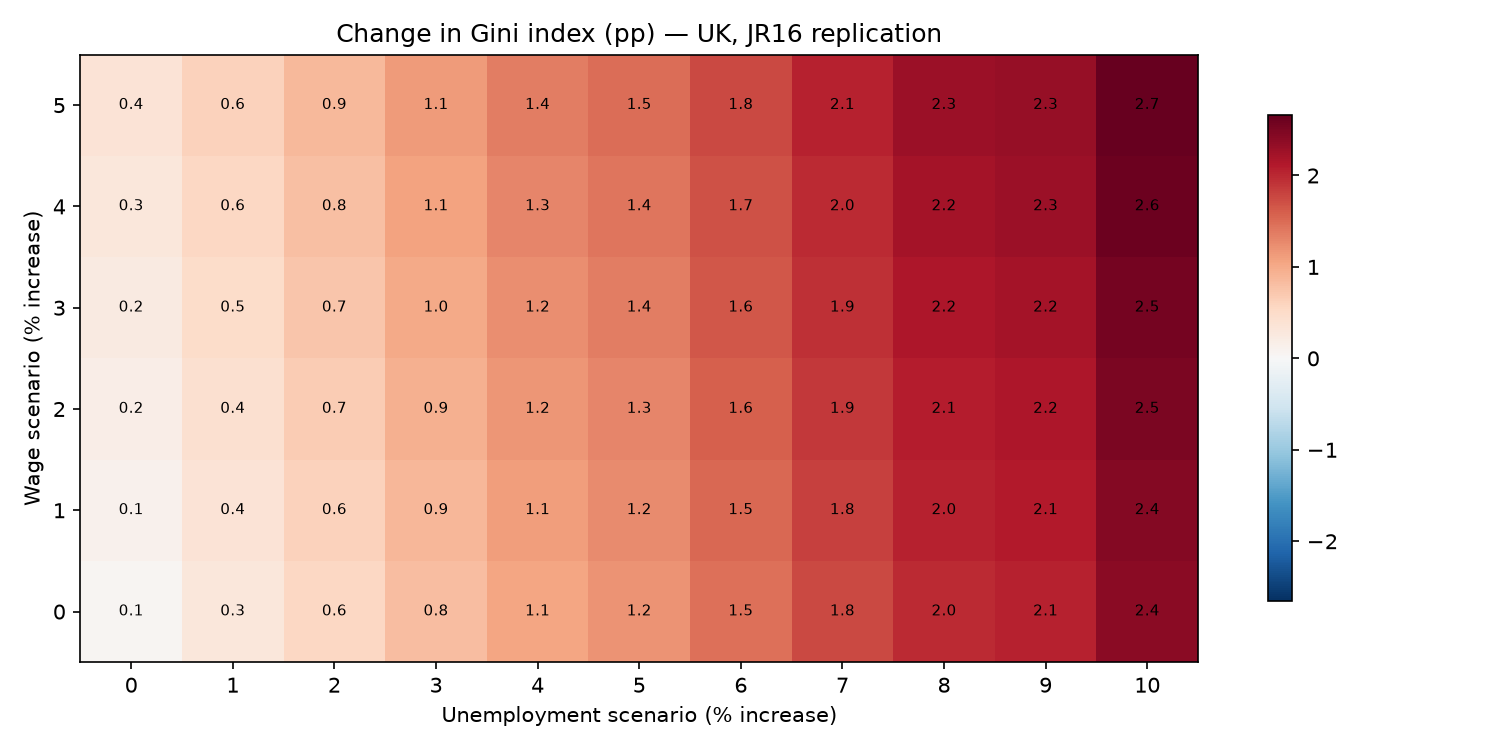
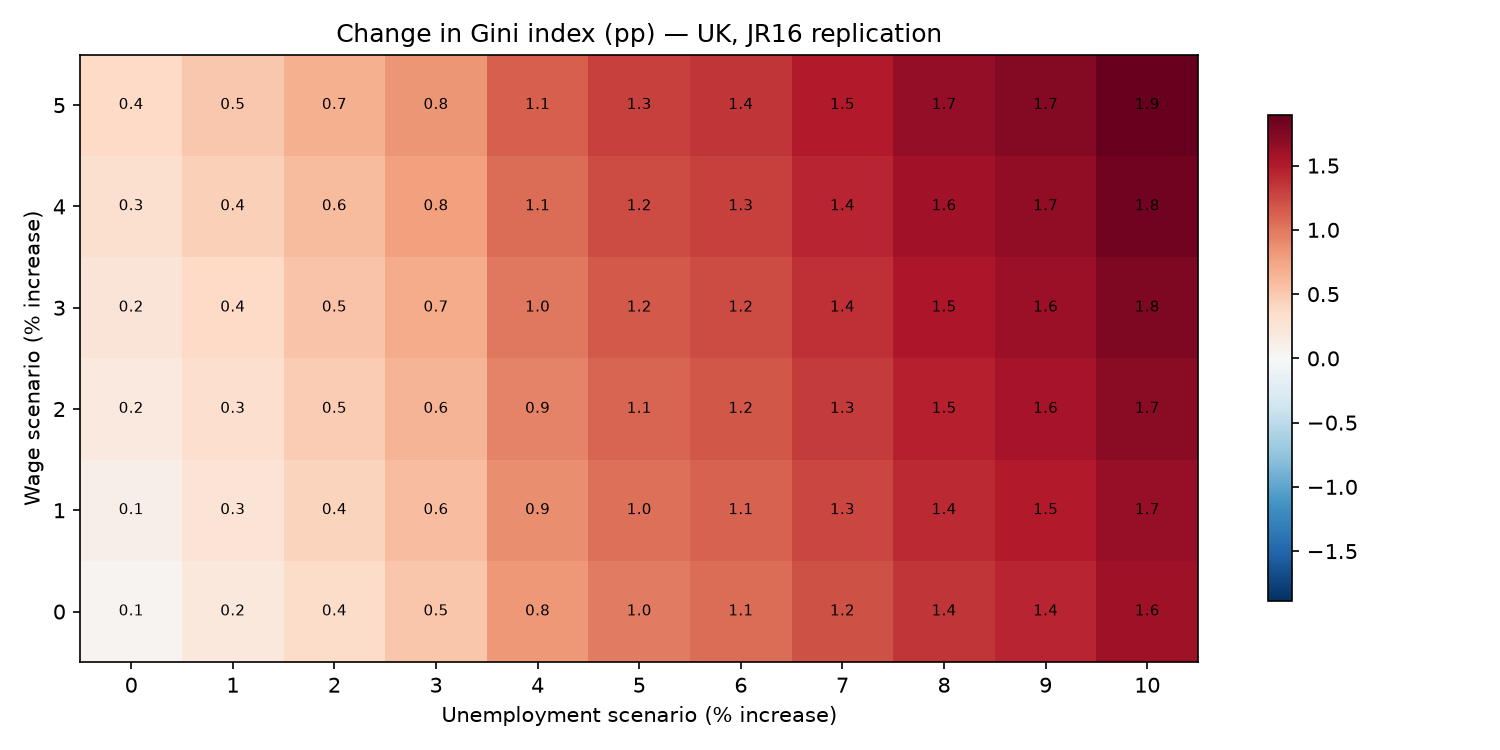
Corrected grid results, updated heatmaps and paper; add three-paper scenario section

diff --git a/paper/main.tex b/paper/main.tex
@@ -25,12 +25,14 @@ adults; employment, wage and capital shocks follow the report's equations
 3.4 and 3.5; and fiscal and distributional outcomes are computed with
 PolicyEngine UK in place of SWITCH. In the central scenario (7\%
 displacement, +2.6\% wages, +0.4pp return to capital), the annual Exchequer
-cost is \pounds 41bn, the before-housing-costs poverty rate rises by
-3.3 percentage points, and the Gini of equivalised household net income
-rises by 0.019. We extend the framework along the age dimension: tilting
+cost is \pounds 18bn, the before-housing-costs poverty rate rises by
+1.8 percentage points, and the Gini of equivalised household net income
+rises by 0.014. We extend the framework along the age dimension: tilting
 within-occupation displacement toward workers aged 16--24, per recent
 seniority-biased evidence, raises the youth share of the displaced by
-roughly two-fifths while leaving aggregate effects nearly unchanged.
+roughly one-sixth while leaving aggregate effects nearly unchanged; and we
+implement the employment findings of three recent seniority-biased studies
+as explicit scenarios.
 \end{abstract}
 
 \section{Introduction}
@@ -98,44 +100,44 @@ net income, with breakdowns by baseline income decile and age band.
 \toprule
  & Displacement & Exchequer cost & $\Delta$ Poverty (BHC) & $\Delta$ Gini \\
 \midrule
-Low & 1\% & \pounds 6.5bn & +0.32pp & +0.003 \\
-Central & 7\% & \pounds 41.1bn & +3.25pp & +0.019 \\
-High & 13\% & \pounds 93.9bn & +7.02pp & +0.034 \\
-Central, youth-tilted & 7\% & \pounds 39.4bn & +3.42pp & +0.018 \\
+Low & 1\% & \pounds 1.8bn & +0.01pp & +0.002 \\
+Central & 7\% & \pounds 17.9bn & +1.84pp & +0.014 \\
+High & 13\% & \pounds 48.5bn & +4.17pp & +0.023 \\
+Central, youth-tilted & 7\% & \pounds 16.7bn & +2.17pp & +0.013 \\
 \bottomrule
 \end{tabular}
 \end{table}
 
-Fiscal costs scale roughly linearly at \pounds 6--7bn per percentage point
+Fiscal costs scale roughly linearly at \pounds 3--4bn per percentage point
 of displacement, on top of an always-on capital-shock component. The
 youth-tilted central scenario raises the 16--24 share of the displaced from
-3.2\% to 4.5\% --- a two-fifths increase --- while aggregate fiscal and
-inequality effects move little, because young workers' earnings and benefit
-entitlements are smaller than average. Poverty, however, rises slightly
-\emph{more} under the youth tilt (+3.42pp vs +3.25pp).
+3.6\% to 4.2\% while aggregate fiscal and inequality effects move little,
+because young workers' earnings and benefit entitlements are smaller than
+average. Poverty, however, rises \emph{more} under the youth tilt (+2.17pp
+vs +1.84pp).
 
 \subsection{Full replication of the JR16 result set}
 
 We regenerate every result in the original report for the UK. The share of
-workers transitioning to unemployment rises monotonically from 0.6\% in the
-bottom decile of equivalised household disposable income to 8.5\% in the top
-decile (Ireland: 0.7\% to 5.3\%) --- AI displacement risk concentrates in
-high-income households, and more steeply in the UK. Wage gains for those who
-remain are flat across the distribution (2.5--2.7\%). The capital-return
+the population transitioning to unemployment rises monotonically from 0.4\%
+in the bottom decile of equivalised household disposable income to 5.1\% in
+the top decile (Ireland: 0.7\% to 5.3\%) --- AI displacement risk
+concentrates in high-income households, as in Ireland. Wage gains for those
+who remain are flat across the distribution (2.5--2.7\%). The capital-return
 shock is a uniform $\approx$40\% increase per recipient, but 35\% of
 interest and dividend income sits in the top decile, so gains accrue at the
-very top. Market-income losses are progressive (from $-0.3$\% of disposable
-income in decile 1 to $-4.6$\% at the top), cushioned by rising benefit
+very top. Market-income losses are progressive (from $-0.1$\% of disposable
+income in decile 1 to $-2.1$\% at the top), cushioned by rising benefit
 entitlement in the middle deciles and falling tax at the top.
 
 Across the full $11 \times 6$ scenario grid (0--10\% employment loss
 $\times$ 0--5\% wage increase, capital shock always on;
 Figures~\ref{fig:grid-disposable}--\ref{fig:grid-gini}), average household
-disposable income ranges from $+2.9$\% to $-9.2$\%, with a near-zero
+disposable income ranges from $+2.9$\% to $-5.5$\%, with a near-zero
 diagonal where wage gains offset displacement; net Exchequer revenue ranges
-from $+7.0$\% to $-17.6$\% of income tax and National Insurance receipts
+from $+7.0$\% to $-10.2$\% of income tax and National Insurance receipts
 (Ireland: $+14$\% to $-25$\%); and the Gini index rises in \emph{every}
-scenario, from $+0.05$pp (capital shock only) to $+2.7$pp (Ireland: $+0.3$
+scenario, from $+0.05$pp (capital shock only) to $+1.9$pp (Ireland: $+0.3$
 to $+1.2$pp). All three of the original report's takeaways hold for the UK:
 higher-income households are more affected in every scenario, potential
 losses exceed potential gains, and some scenarios leave average incomes
@@ -161,6 +163,40 @@ unchanged while inequality still rises.
 \caption{Change in the Gini index of equivalised household disposable income, percentage points (UK analogue of JR16 Figure 4.7).}
 \label{fig:grid-gini}
 \end{figure}
+
+\subsection{Three seniority-biased studies as explicit scenarios}
+
+Beyond the JR16 grid, we implement the headline employment findings of
+three recent studies as displacement rules on the same microdata
+(employment shock only; no wage or capital shock):
+
+\begin{table}[h]
+\centering
+\caption{Paper-anchored displacement scenarios, UK}
+\begin{tabular}{lrrrr}
+\toprule
+ & Displaced & Exchequer cost & $\Delta$ Poverty & $\Delta$ Gini \\
+\midrule
+Klein Teeselink (2025): $-4.5$\% at exposed firms, & & & & \\
+\quad junior-tilted $5.8/4.5$ & 1.01m (4.4\%) & \pounds 20.4bn & +1.62pp & +0.73pp \\
+Hosseini \& Lichtinger (2026): $-9$\% under-30s & & & & \\
+\quad in above-median-exposure occupations & 0.10m (0.5\%) & \pounds 1.0bn & +0.11pp & +0.06pp \\
+Brynjolfsson et al.\ (2025): $-13$\% ages 22--25 & & & & \\
+\quad in top-quintile-exposure occupations & 0.02m (0.1\%) & \pounds 0.1bn & +0.02pp & +0.01pp \\
+\bottomrule
+\end{tabular}
+\end{table}
+
+Two lessons follow. First, cohort-specific shocks --- taken literally ---
+are fiscally small: workers aged 22--25 in the most exposed occupations are
+few and earn less than average, so even a 13\% cohort displacement costs
+the Exchequer roughly \pounds 0.1bn, versus \pounds 20bn for the
+economy-wide Klein Teeselink shock. Second, occupational exposure does not
+by itself generate seniority bias: even with the junior tilt, the Klein
+Teeselink scenario displaces 5.0\% of employed 45--54-year-olds against
+2.5\% of employed 16--24-year-olds, because prime-age workers dominate
+high-C-AIOE occupations. Seniority-biased displacement must be imposed on
+top of occupational exposure, not derived from it.
 
 \section{Limitations}
 